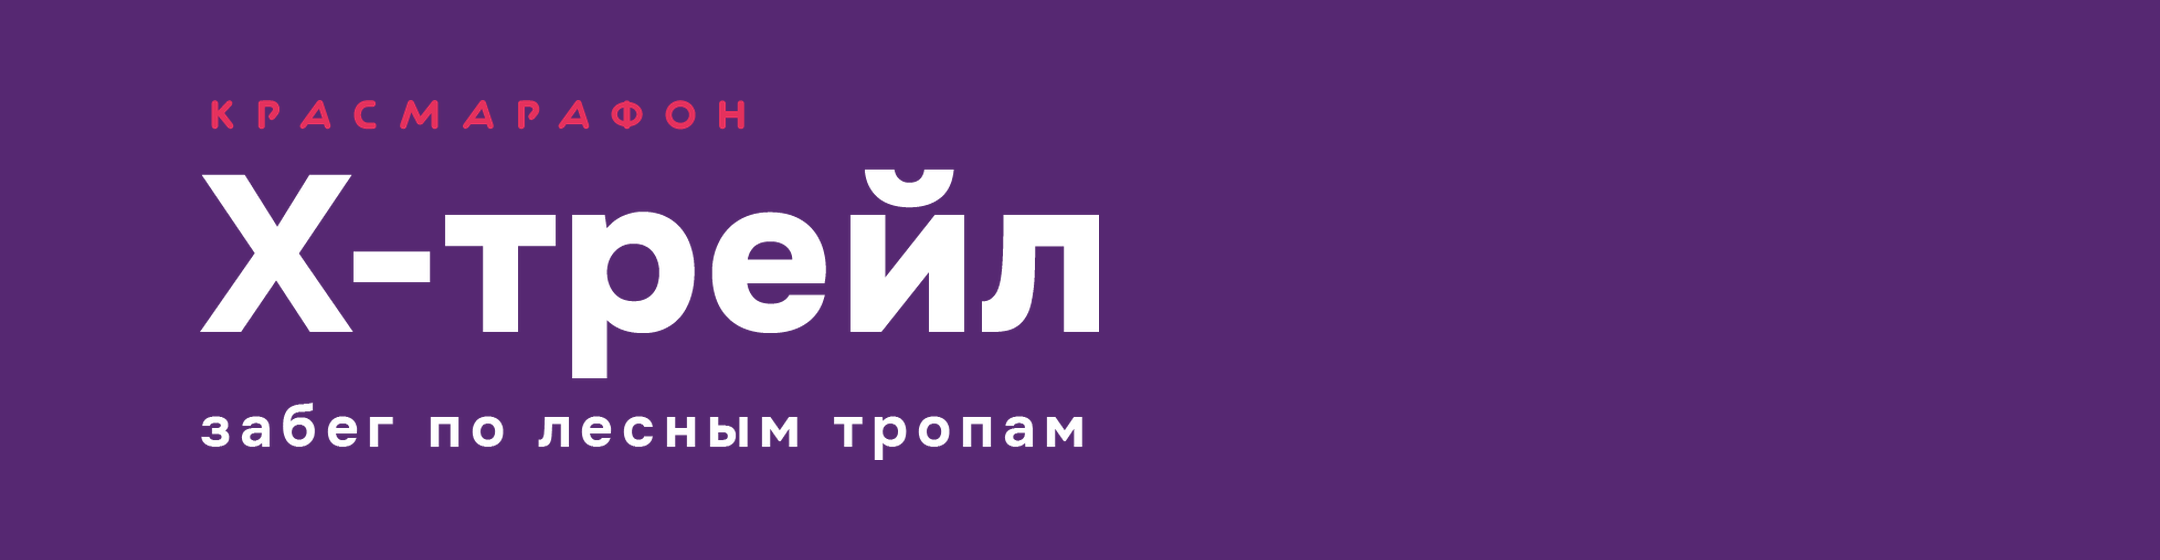
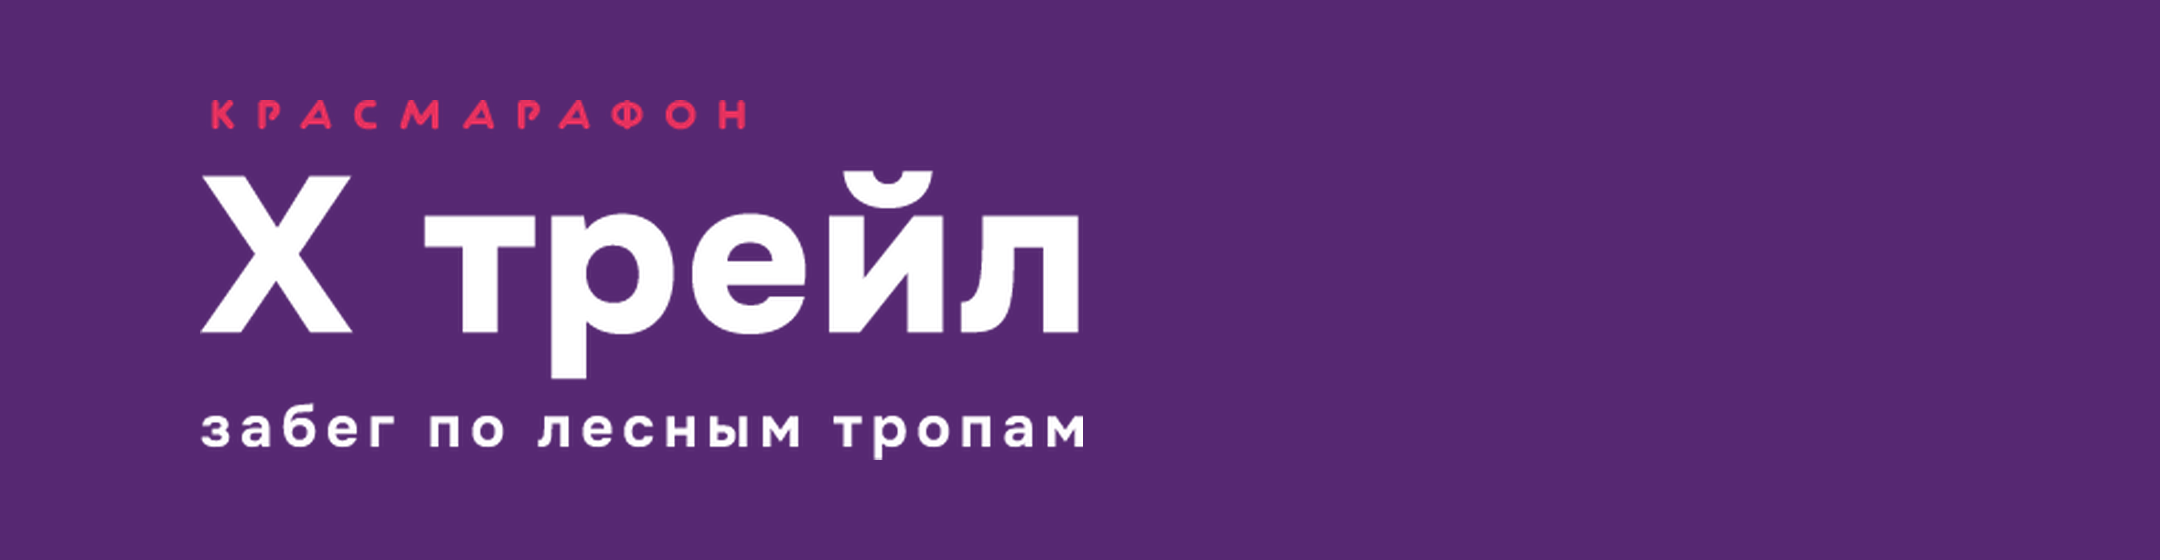
feat(branding): Х Трейл — новый вариант логотипа («Х трейл» без дефиса)

diff --git a/static/css/race-analysis.css b/static/css/race-analysis.css
@@ -122,7 +122,7 @@
 }
 
 .race-card:nth-child(7) .race-card-image {
-    background-image: url('/static/images/events/logo1x1/Х Трейл.png?v=20261006');
+    background-image: url('/static/images/events/logo1x1/Х Трейл.png?v=20261006b');
     background-size: cover;
     background-position: center;
 }
